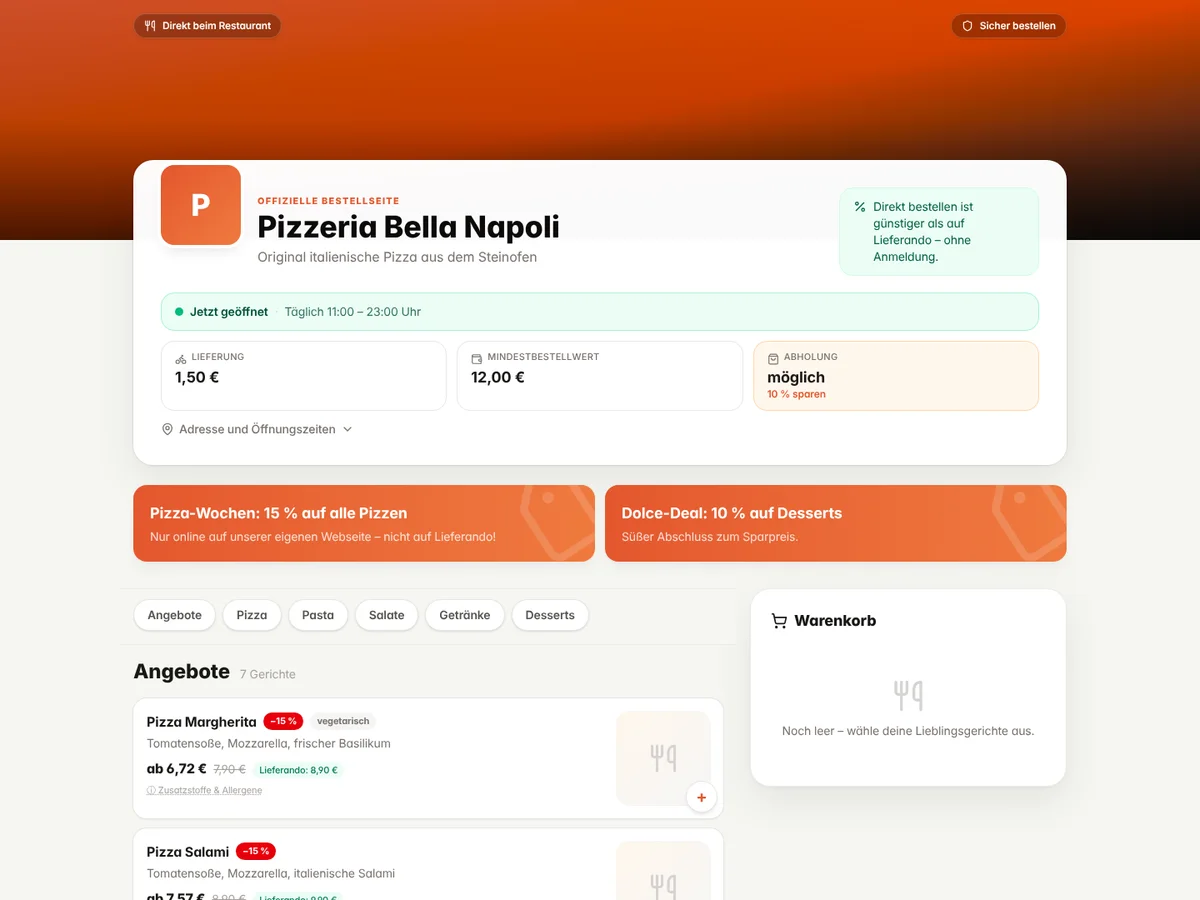
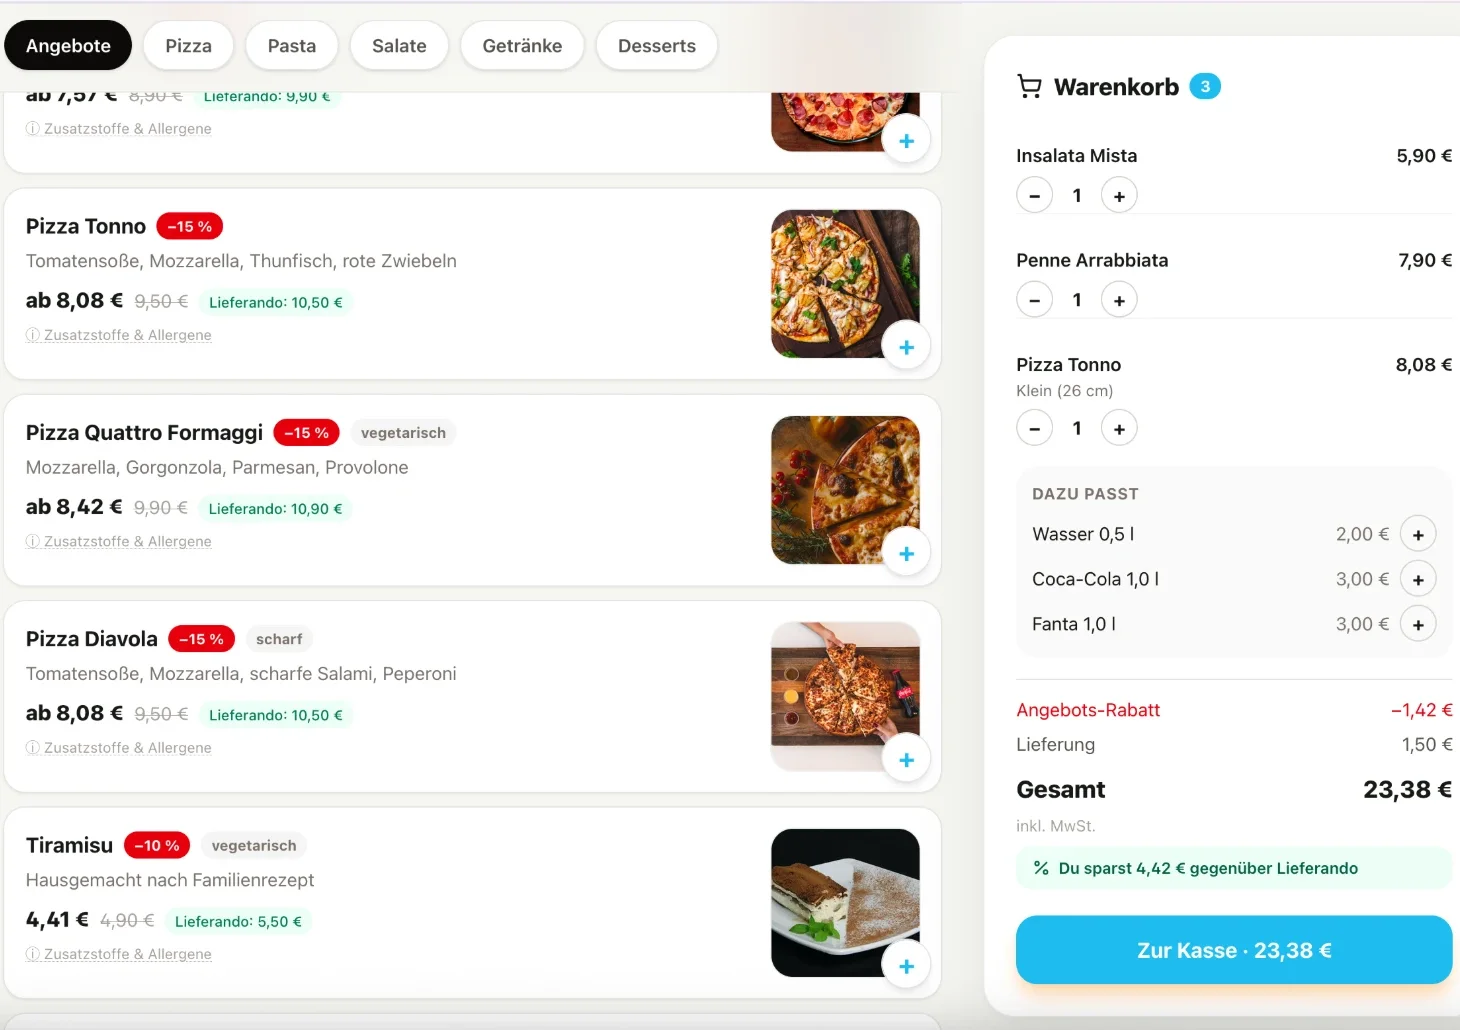
Teykto-Live-Screenshot mit Fotos, Adloc als Testphase gekennzeichnet
Claude-Session: https://claude.ai/code/session_01RdZ91zX717GxELCA6hukTo

diff --git a/web/app/leistungen/ki-automatisierung/page.tsx b/web/app/leistungen/ki-automatisierung/page.tsx
@@ -194,9 +194,9 @@ const eigeneProjekte: DetailEintrag[] = [
     hinweis: "Produkt von Pixel56, mit KI entwickelt und betrieben.",
   },
   {
-    kicker: "Eigenes Produkt · B2B-Daten · Rheinland-Pfalz verfügbar",
+    kicker: "Eigenes Produkt · B2B-Daten · in der Testphase",
     titel: "Adloc: B2B-Kontaktdatenbank, Bundesland für Bundesland",
-    text: "Schluss mit stundenlanger Recherche: Adloc liefert verifizierte Firmenkontakte aus Deutschland, gefiltert nach Bundesland, Stadt und Branche, sofort als CSV fürs CRM. Gestartet mit Rheinland-Pfalz, alle 202 Gemeinden erfasst, Nordrhein-Westfalen folgt. Mit KI-Unterstützung gebaut und betrieben.",
+    text: "Schluss mit stundenlanger Recherche: Adloc liefert verifizierte Firmenkontakte aus Deutschland, gefiltert nach Bundesland, Stadt und Branche, sofort als CSV fürs CRM. Start mit Rheinland-Pfalz, alle 202 Gemeinden erfasst, Nordrhein-Westfalen folgt. Mit KI-Unterstützung gebaut; aktuell laufen die Tests vor dem öffentlichen Start.",
     punkte: [
       "Über 50.000 Kontakte in Rheinland-Pfalz, 15 Branchen von Handwerk bis IT, Abdeckung bis in die Kleinststädte",
       "Multi-Filter nach Bundesland, Stadt und Branche, Sofort-Export als CSV, direkt ins CRM importierbar",
@@ -208,7 +208,7 @@ const eigeneProjekte: DetailEintrag[] = [
     href: "https://adloc.io",
     linkText: "adloc.io ansehen",
     extern: true,
-    hinweis: "Eigenes Produkt von Pixel56. Zahlen laut adloc.io, Stand Oktober 2026.",
+    hinweis: "Eigenes Produkt von Pixel56, noch nicht öffentlich gestartet. Zahlen laut adloc.io, Stand Oktober 2026.",
   },
   {
     kicker: "Eigenes Werkzeug · Live-Dashboard",

diff --git a/web/docs/KURZBRIEFING.md b/web/docs/KURZBRIEFING.md
@@ -45,9 +45,8 @@ wird umgesetzt, gebaut, mit Screenshot geprüft, committet und gepusht
   „pixel56.de - Tagesplaner PDF.svg“ gerendert und zugeschnitten; Webflow
   nur lesend). Passt/Passt nicht auf acht bzw. sechs Punkte erweitert
   (Selbstständige, Unternehmer, roter Faden, alles aus einer Hand).
-  **Offen:** Inhaber fragt, ob das Koblenz-Bild in den Hero soll wie auf
-  der alten Seite. Empfehlung dagegen (siehe Chat/STATUS), Entscheidung
-  beim Inhaber.
+  **Entschieden (16.10.):** Hero bleibt ohne Koblenz-Bild, Inhaber folgt
+  der Empfehlung.
 - **Vergleich alt/neu (15.10.):** Alte Webflow-Seite hatte Breite
   (Handwerk, Coaches, KMU, DACH) und harten Verkaufston, aber keine
   Beweise, unhaltbare Versprechen („Ergebnisse in 2–4 Wochen“,
@@ -83,15 +82,15 @@ wird umgesetzt, gebaut, mit Screenshot geprüft, committet und gepusht
 
 ## Offene Punkte (Reihenfolge = Priorität)
 
-1. **Vom Inhaber erwartet:** Rückmeldung zur neuen Startseite (Hero,
-   Ohne/Mit-Block, Beispielbilder, Passt-Block), Entscheidung zum
-   Koblenz-Bild im Hero (Empfehlung: nein, Alternative Porträt). Teykto-
+1. **Vom Inhaber erwartet:** weitere Rückmeldung zur Startseite und den
+   Leistungsseiten. **Adloc ist noch nicht öffentlich** (Tests laufen),
+   Eintrag auf der KI-Seite sagt das; bei Start Kicker/Hinweis ändern. Teykto-
    und Adloc-Bilder sind da (16.10.): Adloc = Laptop-Mockup
    `ki-projekt-adloc.webp`, Adloc-Texte nach den Screenshots der Produktseite (Credits statt Abo,
    RLP komplett, 15 Branchen; Zahlen als „laut adloc.io“ gekennzeichnet).
-   Teykto = Bestellseite `ki-projekt-teykto.webp`, scharf aus dem
-   lokal gestarteten Teykto-Repo (Demo „Bella Napoli“, 1440 px; Demo hat
-   keine Gerichtsfotos, weil Unsplash gesperrt ist). adloc.io und
+   Teykto = Live-Screenshot des Inhabers von
+   teykto.onrender.com/r/bella-napoli mit Gerichtsfotos
+   (`ki-projekt-teykto.webp`, Browserleiste abgeschnitten). adloc.io und
    teykto.de sind in der Sandbox durch die Netzwerk-Richtlinie gesperrt
    (403 am Proxy), Inhaber kann sie in den Umgebungs-Einstellungen
    freigeben.

diff --git a/web/docs/STATUS.md b/web/docs/STATUS.md
@@ -15,6 +15,15 @@ verändert, auch kein Publish. Lesende API-Zugriffe sind davon nicht betroffen.
 
 ## Was zuletzt passiert ist
 
+- 16.10.2026: **Teykto-Live-Bild, Adloc als Testphase, Hero-Entscheidung.**
+  Inhaber liefert fünf Firefox-Bildschirmfotos von teykto.de und
+  teykto.onrender.com (Startseite „Sparen Sie 15 % Provision“, Speisekarte
+  mit Fotos und Warenkorb, Artikel-Dialog mit Größen und Extras,
+  Bestellabschluss). Speisekarte mit Warenkorb ohne Browserleiste als
+  `ki-projekt-teykto.webp` übernommen (1460×1030; die 4:3-Kachel schneidet
+  per CSS mittig). Adloc ist laut Inhaber noch nicht aktiv (Tests laufen):
+  Kicker „in der Testphase“, Text und Hinweis „noch nicht öffentlich
+  gestartet“. Hero: Inhaber folgt der Empfehlung, kein Koblenz-Bild.
 - 16.10.2026: **Adloc-Texte nach der echten Produktseite.** Inhaber hat fünf
   Bildschirmfotos von adloc.io geschickt (Branchen, Bundesländer, Vergleich,
   Nutzen, FAQ). Eintrag auf der KI-Seite neu: Bundesland für Bundesland
